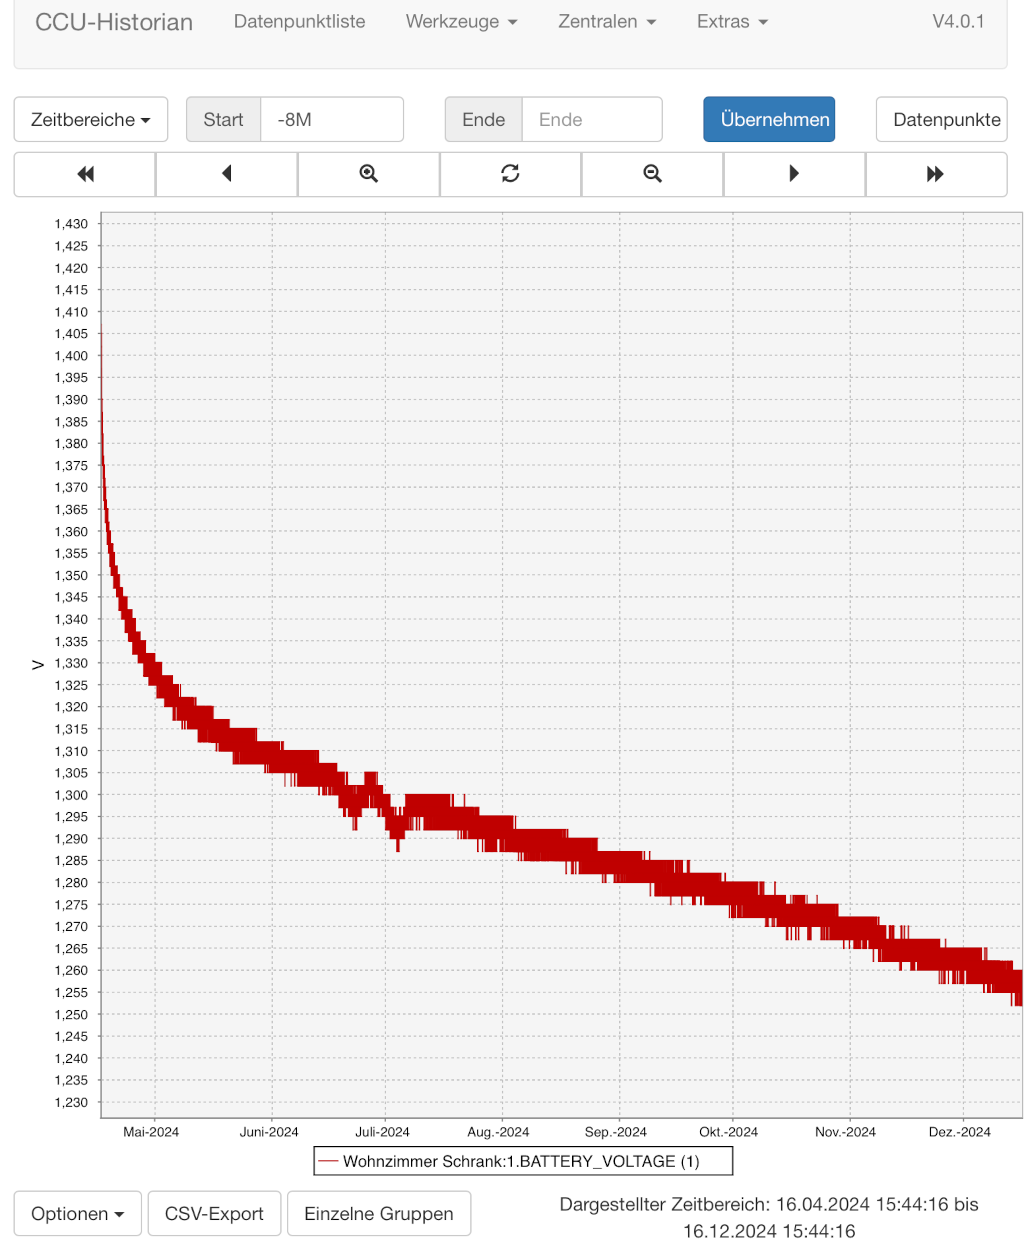
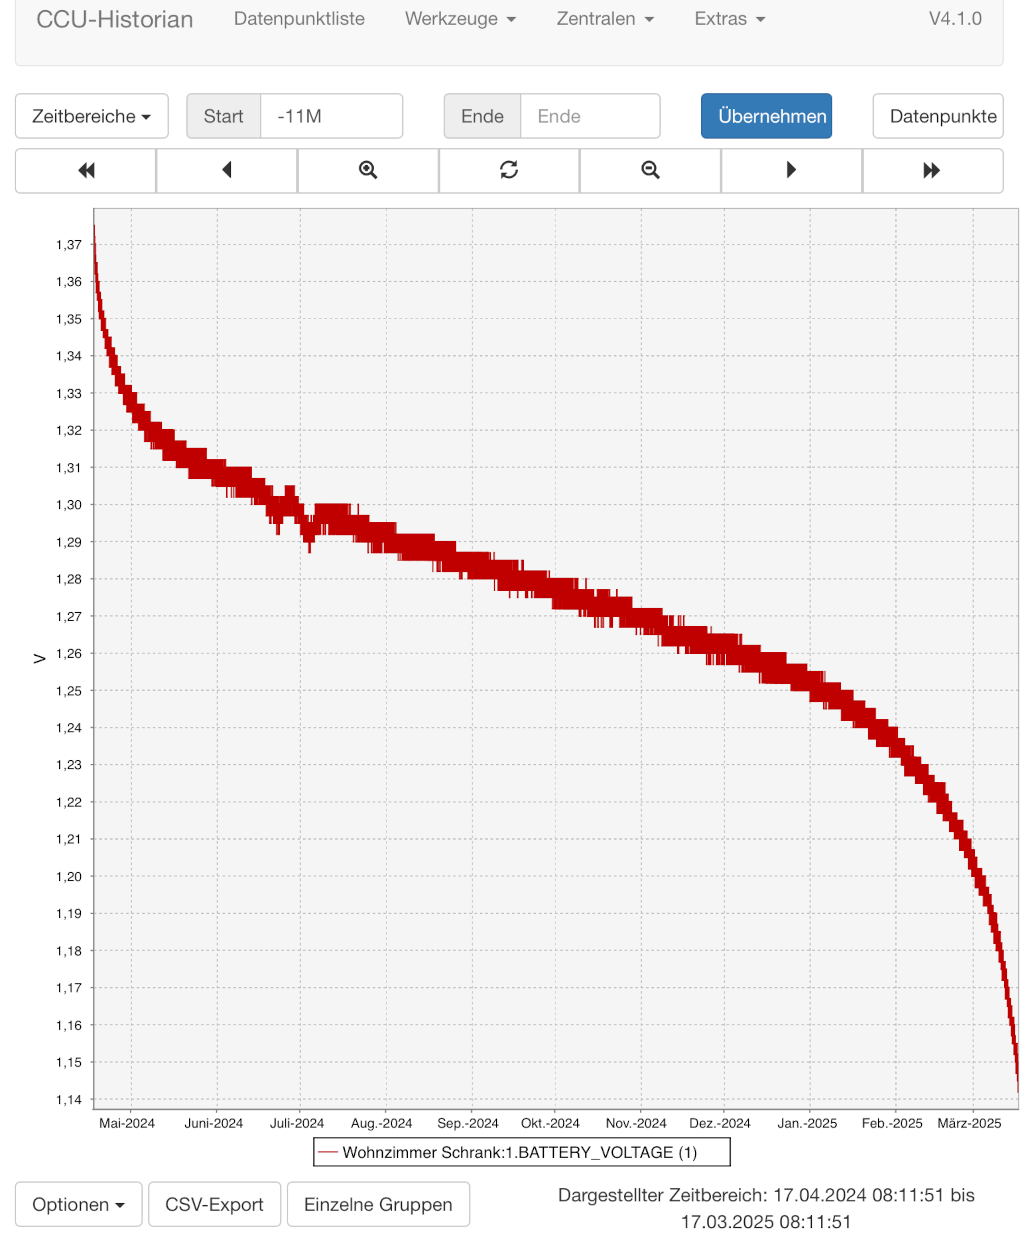
sketches/HB-UNI-Sensor1-THPD-SHT45_BME280: update of >11 months accu operation time

diff --git a/AsksinPP_developments/sketches/HB-UNI-Sensor1-THPD-SHT45_BME280/README.md b/AsksinPP_developments/sketches/HB-UNI-Sensor1-THPD-SHT45_BME280/README.md
@@ -198,7 +198,7 @@ Globale Variablen verwenden 8109 Bytes (49%) des dynamischen Speichers, 8275 Byt
 
 ## Betriebsdauer mit einem neuen Batteriesatz
 
-- \> 8 Monate mit einem 2/3 AA-Mignon-NiMH Akkumulator mit 750mA Kapazität. Diese passt von der Größe zur Platine 'HB_Stamp_ATMega1284P_FUEL4EP':
+- \> 11 Monate mit einem 2/3 AA-Mignon-NiMH Akkumulator mit 750mA Kapazität. Diese passt von der Größe zur Platine 'HB_Stamp_ATMega1284P_FUEL4EP':
 ![pic](Images/accu_discharge_curve.png)
 - da der Batteriehalter nicht in die Platine integriert ist, sind auch andere Batteriegrößen möglich, z.B. eine AAA-Batterie oder eine AA-Batterie
 
